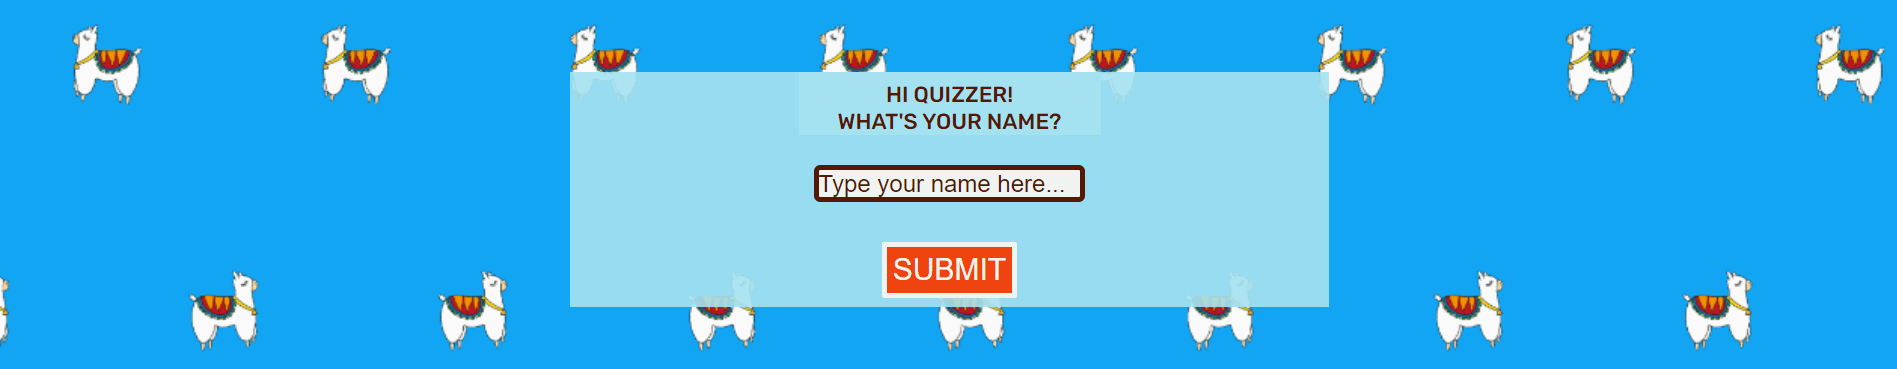
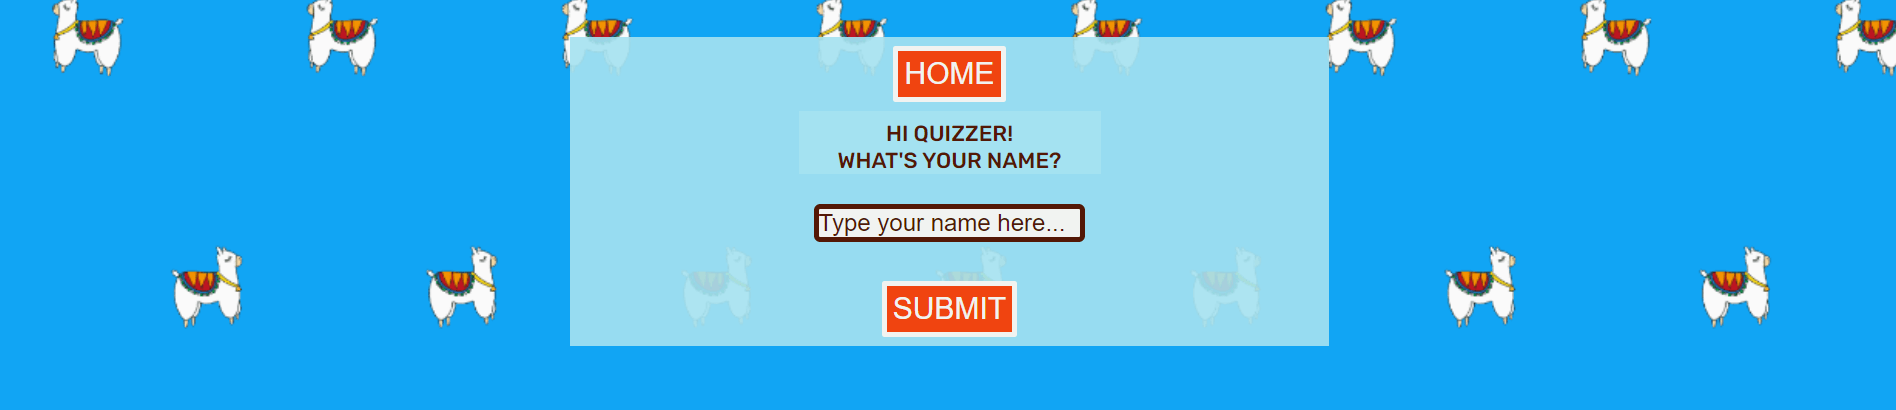
Upload optimized images, add home button to readme.md

diff --git a/README.md b/README.md
@@ -20,6 +20,7 @@ Welcome to <a href="https://bpstephanie.github.io/The_Country_Quiz/">The Country
     * [How To Play Modal](<#how-to-play-modal>)
     * [Main Game Page](<#main-game-page>)
     * [Main Heading](<#main-heading>)
+    * [Home Button](<#home-button>)
     * [Username](<#username>)
     * [Start Game Button](<#start-game-button>)
       * [Restart Button](<#restart-button>)
@@ -111,7 +112,7 @@ The Country Quiz consists of one page, the [Main Game Page](index.html), and two
   ## Existing Features
 
   - ### Welcome Message Modal
-    When the user first enters the site, a welcome modal message appears with two buttons, the 'How To Play' button which takes the user to the instructions for the quiz and the 'Let's get Started' button which closes the modal and takes the user to the [Main Game Page](<#main-game-page>).
+    When the user first enters the site, a welcome message modal appears with two buttons, the 'How To Play' button which takes the user to the instructions for the quiz and the 'Let's get Started' button which closes the modal and takes the user to the [Main Game Page](<#main-game-page>).
 
     Welcome Message Modal Desktop:\
     ![Welcome Message Modal Desktop](media/site-screenshots/welcome-modal.png)
@@ -137,6 +138,11 @@ The Country Quiz consists of one page, the [Main Game Page](index.html), and two
 
       Mobile Main Heading:\
       ![Main Heading Mobile](media/site-screenshots//main-heading-mobile.png)
+    
+    - #### Home Button
+      The home button will take the user back to the welcome message modal where that can access the instructions. 
+
+      ![Home Button](media/site-screenshots/home-button.png)
 
     - #### Username 
       In order for a user to play the quiz, a username must be entered. The username has to be 3 - 10 characters long and must be letters.
